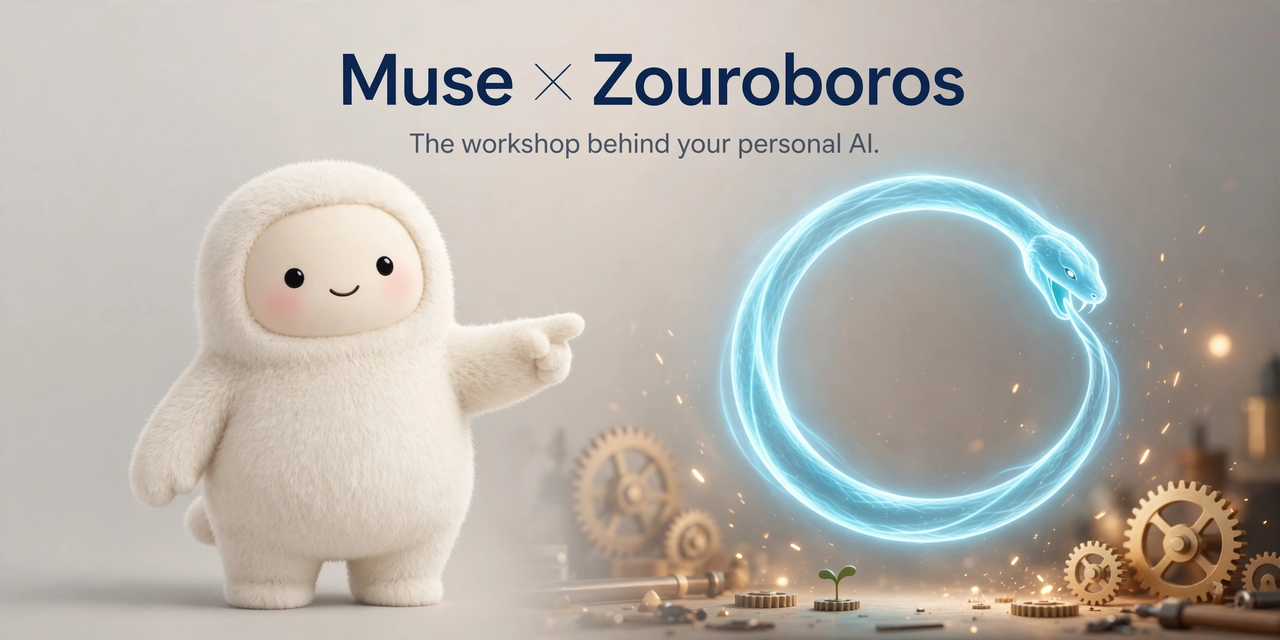
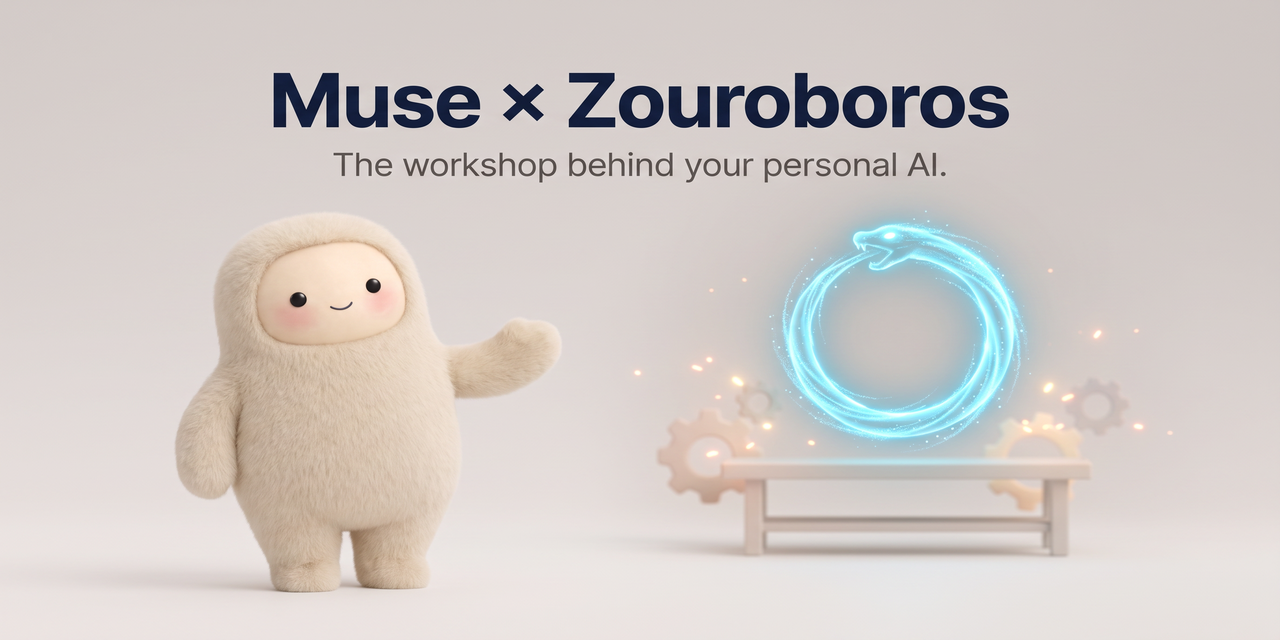
Hero + social preview: Fal.AI Muse mascot version (Marlando's pick)

diff --git a/README.md b/README.md
@@ -4,7 +4,7 @@
 [![Version](https://img.shields.io/badge/version-0.1.0-green.svg)](package.json)
 [![Muse](https://img.shields.io/badge/for-Meta%20Muse-0668E1.svg)](https://www.meta.ai)
 
-![Muse × Zouroboros — Two Minds. One Infinite Loop. One symbiotic system.](docs/assets/infographic.png)
+![Muse × Zouroboros — The workshop behind your personal AI.](docs/assets/hero-muse-workshop.png)
 
 **The workshop behind your personal AI.**
 
